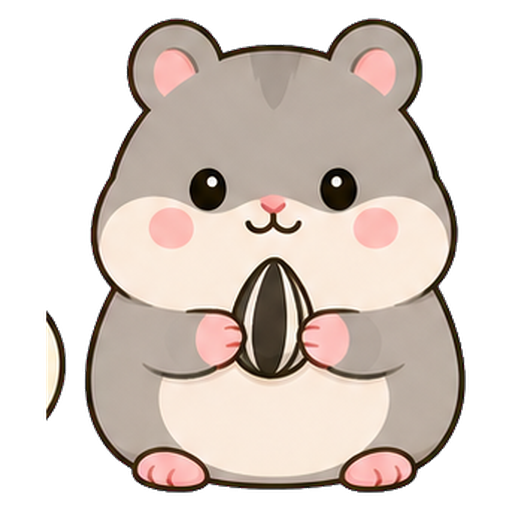
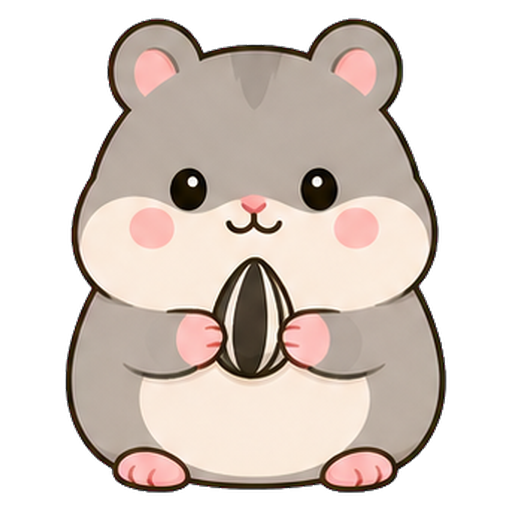
fix: full example sentences, edge arrows for stepping, and clean sprite crops
Examples were clipped to one line because the list used a fixed row height so
getItemLayout could exist. Examples run to 114 characters, so rows now measure
themselves and onScrollToIndexFailed covers the A-Z jumps into rows the list
has not laid out yet.

Practice gains arrows pinned to the screen edges. A revealed card is long, and
hunting for 'next' at the bottom of it every time was the complaint. Stepping
back then answering again must not score a word twice — it would advance its
Leitner box a second time and inflate the day's count — so scored words are
tracked for the session.

Two sprites carried a sliver of the neighbouring animal from being cut out of
a grid sheet. A sliver is invisible but it widens the bounding box, so the crop
centred on the pair and the animal came out small and off-centre. The prep
script now keeps only the largest connected shape.

Changed region(s): [[0.0625, 0.0312, 0.9375, 0.9688]]

diff --git a/src/screens/PracticeScreen.tsx b/src/screens/PracticeScreen.tsx
@@ -34,7 +34,7 @@ import { buildPracticeQueue } from '../lib/practiceQueue';
 import { MultipleChoiceCard } from '../components/MultipleChoiceCard';
 import { SessionSidePanel, MarkedWord } from '../components/SessionSidePanel';
 import { Mascot, Mood } from '../components/Mascot';
-import { colors, slab, slabEdge, slabPressed } from '../theme';
+import { colors, shadow, slab, slabEdge, slabPressed } from '../theme';
 
 type Props = NativeStackScreenProps<RootStackParamList, 'Practice'>;
 
@@ -68,6 +68,9 @@ export function PracticeScreen({ route }: Props) {
   const [mood, setMood] = useState<Mood>('idle');
   const processingRef = useRef(false);
   const barFill = useRef(new Animated.Value(0)).current;
+  // Words already scored this session, so stepping back and forth cannot
+  // record the same answer twice.
+  const scoredRef = useRef(new Set<string>());
   // Fixed at mount so re-saving edits the same note instead of piling up a new
   // one every tap.
   const noteIdRef = useRef(`${todayStr()}-${Date.now()}`);
@@ -137,19 +140,33 @@ export function PracticeScreen({ route }: Props) {
     processingRef.current = true;
     try {
       const entry = queue[index];
-      const today = todayStr();
-      const progress = await getAllProgress();
-      const current = progress[entry.word] ?? initialProgress(today);
-      const updated = reviewWord(current, knewIt, today);
-      await saveWordProgress(entry.word, updated);
-      await (knewIt ? removeWrongWord(entry.word) : addWrongWord(entry.word));
-      if (!knewIt) mark(entry, 'wrong');
-      await incrementHeatmapToday(today);
-      setMood('idle'); // the next card starts with a calm mascot
-      setIndex((i) => i + 1);
+      // Stepping back and answering again must not score the same card twice —
+      // it would advance the Leitner box a second time and double the day's
+      // heatmap count.
+      if (!scoredRef.current.has(entry.word)) {
+        scoredRef.current.add(entry.word);
+        const today = todayStr();
+        const progress = await getAllProgress();
+        const current = progress[entry.word] ?? initialProgress(today);
+        const updated = reviewWord(current, knewIt, today);
+        await saveWordProgress(entry.word, updated);
+        await (knewIt ? removeWrongWord(entry.word) : addWrongWord(entry.word));
+        if (!knewIt) mark(entry, 'wrong');
+        await incrementHeatmapToday(today);
+      }
+      goTo(index + 1);
     } finally {
       processingRef.current = false;
     }
+  }
+
+  // Answering is not the only way to move: the arrows pinned to the screen
+  // edges step through the queue without making the reader scroll to the
+  // bottom of a long revealed card to find "next".
+  function goTo(next: number) {
+    if (next < 0 || next > queue.length) return;
+    setMood('idle'); // a fresh card starts with a calm mascot
+    setIndex(next);
   }
 
   async function handleExclude() {
@@ -159,7 +176,7 @@ export function PracticeScreen({ route }: Props) {
     processingRef.current = true;
     try {
       await excludeWord(queue[index].word);
-      setIndex((i) => i + 1);
+      goTo(index + 1);
     } finally {
       processingRef.current = false;
     }
@@ -273,6 +290,30 @@ export function PracticeScreen({ route }: Props) {
         {wide && <View style={styles.sideColumn}>{panel()}</View>}
       </View>
 
+      {/* Pinned to the edges rather than placed after the options: a revealed
+          card is long, and hunting for "next" at the bottom of it every time is
+          the whole complaint. */}
+      {index > 0 && (
+        <Pressable
+          style={({ pressed }) => [styles.stepArrow, styles.stepLeft, pressed && styles.stepArrowDown]}
+          onPress={() => goTo(index - 1)}
+          hitSlop={10}
+          accessibilityLabel="上一題"
+        >
+          <Text style={styles.stepArrowText}>‹</Text>
+        </Pressable>
+      )}
+      {!done && (
+        <Pressable
+          style={({ pressed }) => [styles.stepArrow, styles.stepRight, pressed && styles.stepArrowDown]}
+          onPress={() => goTo(index + 1)}
+          hitSlop={10}
+          accessibilityLabel="下一題"
+        >
+          <Text style={styles.stepArrowText}>›</Text>
+        </Pressable>
+      )}
+
       {!wide && (
         <Modal
           visible={panelOpen}
@@ -336,6 +377,23 @@ const styles = StyleSheet.create({
   // No maxWidth: a clamped flex child leaves dead space beside it instead of
   // handing the slack back to the answer column.
   sideColumn: { flex: 1 },
+  stepArrow: {
+    position: 'absolute',
+    top: '46%',
+    width: 40,
+    height: 56,
+    borderRadius: 20,
+    backgroundColor: colors.surface,
+    borderWidth: 1,
+    borderColor: colors.line,
+    alignItems: 'center',
+    justifyContent: 'center',
+    ...shadow,
+  },
+  stepArrowDown: { backgroundColor: colors.blue },
+  stepLeft: { left: 4 },
+  stepRight: { right: 4 },
+  stepArrowText: { color: colors.blueInk, fontSize: 30, lineHeight: 34, fontWeight: '400' },
   modalRow: { flex: 1, flexDirection: 'row', backgroundColor: 'rgba(18,33,50,0.35)' },
   scrim: { flex: 1 },
   modalPanel: { width: '88%', maxWidth: 420, padding: 12 },

diff --git a/src/screens/AllWordsScreen.tsx b/src/screens/AllWordsScreen.tsx
@@ -5,12 +5,12 @@ import { words, WordEntry } from '../data/words';
 import { speakSequence, stopSpeaking } from '../lib/speech';
 import { colors, centered, slab, slabEdge, slabPressed } from '../theme';
 
-// Fixed so getItemLayout can exist, which is what lets the A-Z strip and the
-// player jump straight to a row in a 3000-item list without measuring it.
-// Card height plus the gap below it.
-const CARD_HEIGHT = 96;
+// Rows size themselves to their example sentence. A fixed height would let
+// getItemLayout jump straight to any row, but examples run to 114 characters
+// and a fixed height clips them — so the list measures as it goes and
+// onScrollToIndexFailed covers the jumps.
 const ROW_GAP = 10;
-const ROW_HEIGHT = CARD_HEIGHT + ROW_GAP;
+const ESTIMATED_ROW = 116; // only a starting guess for a jump into unmeasured rows
 const RATES = [0.75, 1, 1.25];
 const ALPHABET = 'ABCDEFGHIJKLMNOPQRSTUVWXYZ'.split('');
 
@@ -129,10 +129,19 @@ export function AllWordsScreen() {
           ref={listRef}
           data={filtered}
           keyExtractor={(item) => item.word}
-          getItemLayout={(_, index) => ({ length: ROW_HEIGHT, offset: ROW_HEIGHT * index, index })}
           contentContainerStyle={styles.listContent}
           initialNumToRender={12}
           showsVerticalScrollIndicator={false}
+          // Rows are measured, not calculated, so a jump to a far letter lands
+          // on a row the list has never laid out. Approximate, then ask again
+          // once it has caught up.
+          onScrollToIndexFailed={({ index, averageItemLength }) => {
+            listRef.current?.scrollToOffset({
+              offset: (averageItemLength || ESTIMATED_ROW) * index,
+              animated: false,
+            });
+            setTimeout(() => scrollTo(index), 80);
+          }}
           renderItem={({ item, index }) => {
             const active = index === current;
             return (
@@ -150,9 +159,7 @@ export function AllWordsScreen() {
                 <Text style={styles.meaning} numberOfLines={1}>
                   {item.meaning}
                 </Text>
-                <Text style={styles.example} numberOfLines={1}>
-                  {item.example}
-                </Text>
+                <Text style={styles.example}>{item.example}</Text>
               </Pressable>
             );
           }}
@@ -229,9 +236,8 @@ const styles = StyleSheet.create({
   listWrap: { flex: 1, flexDirection: 'row', gap: 4 },
   listContent: { paddingBottom: 4 },
   row: {
-    // CARD_HEIGHT already counts the 4pt lip, so getItemLayout stays right.
-    height: CARD_HEIGHT,
     marginBottom: ROW_GAP,
+    paddingVertical: 12,
     justifyContent: 'center',
     backgroundColor: colors.surface,
     borderRadius: 20,
@@ -255,7 +261,7 @@ const styles = StyleSheet.create({
   },
   marker: { color: colors.blueInk, fontSize: 11, fontWeight: '900' },
   meaning: { color: colors.muted, fontSize: 14, fontWeight: '700', marginTop: 5 },
-  example: { color: colors.ink, fontSize: 12.5, fontStyle: 'italic', marginTop: 6 },
+  example: { color: colors.ink, fontSize: 12.5, lineHeight: 18, fontStyle: 'italic', marginTop: 6 },
   strip: { width: 20, justifyContent: 'center', alignItems: 'center' },
   stripLetter: { color: colors.blueInk, fontSize: 10, fontWeight: '900', paddingVertical: 1 },
   stripLetterOff: { color: colors.line, fontSize: 10, fontWeight: '900', paddingVertical: 1 },

diff --git a/__tests__/screens.test.tsx b/__tests__/screens.test.tsx
@@ -28,7 +28,8 @@ import { SessionSidePanel } from '../src/components/SessionSidePanel';
 import { AllWordsScreen } from '../src/screens/AllWordsScreen';
 import { NotesScreen } from '../src/screens/NotesScreen';
 import { PracticeScreen } from '../src/screens/PracticeScreen';
-import { getNotes, saveNote } from '../src/lib/storage';
+import { getNotes, saveNote, getHeatmap } from '../src/lib/storage';
+import { todayStr } from '../src/lib/date';
 import { words } from '../src/data/words';
 
 const AsyncStorage = require('@react-native-async-storage/async-storage');
@@ -160,6 +161,37 @@ describe('PracticeScreen', () => {
     const shown = readable(tree.root);
     expect(shown).toContain(words[0].meaning);
     expect(shown).toContain(words[0].example);
+  });
+
+  it('the edge arrows move through the queue without scoring anything', async () => {
+    const tree = await mount(practice());
+    expect(readable(tree.root)).toContain('1 / ');
+
+    await act(async () => pressableWith(tree, '›').props.onPress());
+    expect(readable(tree.root)).toContain('2 / ');
+
+    await act(async () => pressableWith(tree, '‹').props.onPress());
+    expect(readable(tree.root)).toContain('1 / ');
+
+    // Skipping past a word is not the same as reviewing it.
+    expect(await getHeatmap()).toEqual({});
+  });
+
+  // Stepping back is only safe if re-answering is a no-op. Otherwise a word's
+  // Leitner box advances twice and the day's count is inflated by wandering.
+  it('answering the same word again after stepping back does not score it twice', async () => {
+    const tree = await mount(practice());
+    const answer = words[0].meaning;
+
+    await act(async () => pressableWith(tree, answer).props.onPress());
+    await act(async () => pressableWith(tree, '下一題').props.onPress());
+    expect(await getHeatmap()).toEqual({ [todayStr()]: 1 });
+
+    await act(async () => pressableWith(tree, '‹').props.onPress());
+    await act(async () => pressableWith(tree, answer).props.onPress());
+    await act(async () => pressableWith(tree, '下一題').props.onPress());
+
+    expect(await getHeatmap()).toEqual({ [todayStr()]: 1 });
   });
 
   it('saves the session note to the notes library', async () => {

diff --git a/scripts/prepMascots.py b/scripts/prepMascots.py
@@ -225,8 +225,55 @@ def columns_with_content(im: Image.Image) -> list[tuple[int, int]]:
     return [s for s in spans if s[1] - s[0] > w * 0.08]
 
 
+def largest_shape(im: Image.Image) -> Image.Image:
+    """Erase everything except the biggest connected shape.
+
+    Sprites cut by hand out of a grid sheet keep a sliver of the neighbour at
+    the edge. A sliver is invisible on its own but it widens the bounding box,
+    so the crop below centres on the pair and the animal ends up small and
+    off-centre. Every source here is a single subject — the girl and the cat on
+    her head are one connected shape — so the largest blob is the subject and
+    anything else is debris.
+    """
+    w, h = im.size
+    px = im.load()
+    seen = bytearray(w * h)
+    best: list[tuple[int, int]] = []
+    for sy in range(h):
+        for sx in range(w):
+            if seen[sy * w + sx] or px[sx, sy][3] <= TRANSPARENT:
+                continue
+            cells = []
+            queue = deque([(sx, sy)])
+            seen[sy * w + sx] = 1
+            while queue:
+                x, y = queue.popleft()
+                cells.append((x, y))
+                for nx, ny in ((x + 1, y), (x - 1, y), (x, y + 1), (x, y - 1)):
+                    if 0 <= nx < w and 0 <= ny < h and not seen[ny * w + nx]:
+                        if px[nx, ny][3] > TRANSPARENT:
+                            seen[ny * w + nx] = 1
+                            queue.append((nx, ny))
+            if len(cells) > len(best):
+                best = cells
+
+    keep = bytearray(w * h)
+    for x, y in best:
+        keep[y * w + x] = 1
+    dropped = 0
+    for y in range(h):
+        for x in range(w):
+            if not keep[y * w + x] and px[x, y][3] > 0:
+                px[x, y] = (0, 0, 0, 0)
+                dropped += 1
+    if dropped:
+        print(f"    dropped {dropped}px of stray shapes")
+    return im
+
+
 def crop_to_subject(im: Image.Image) -> Image.Image:
     """Trim the empty canvas, then centre the subject on a square."""
+    im = largest_shape(im)
     box = im.getchannel("A").getbbox()
     if box is None:
         return im
